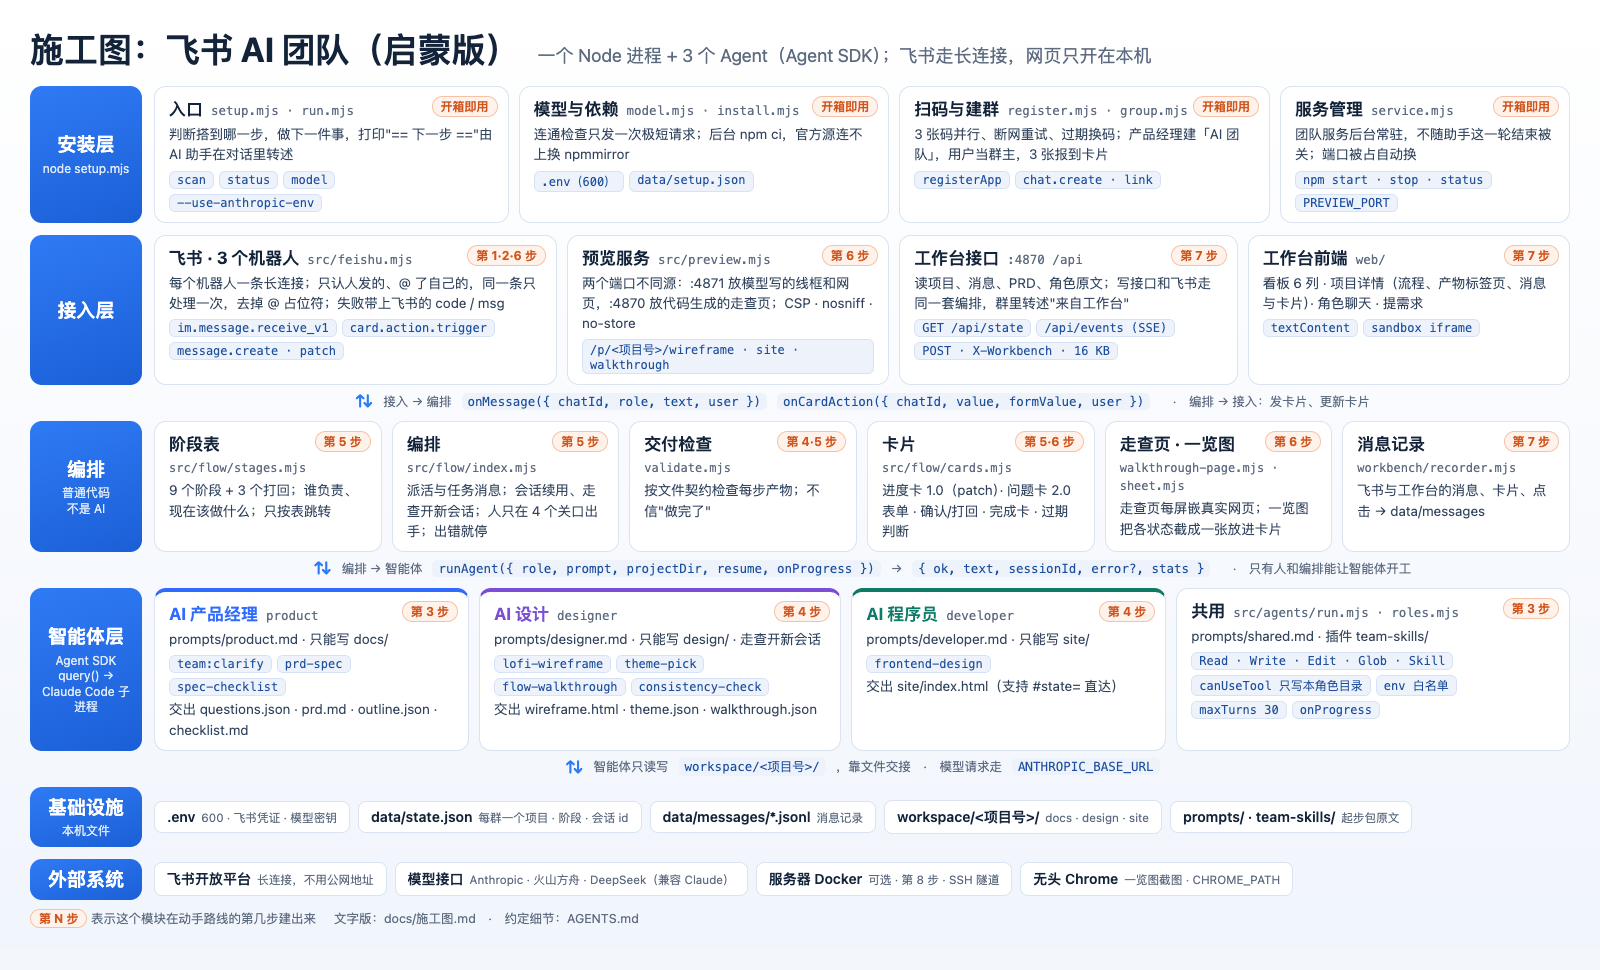
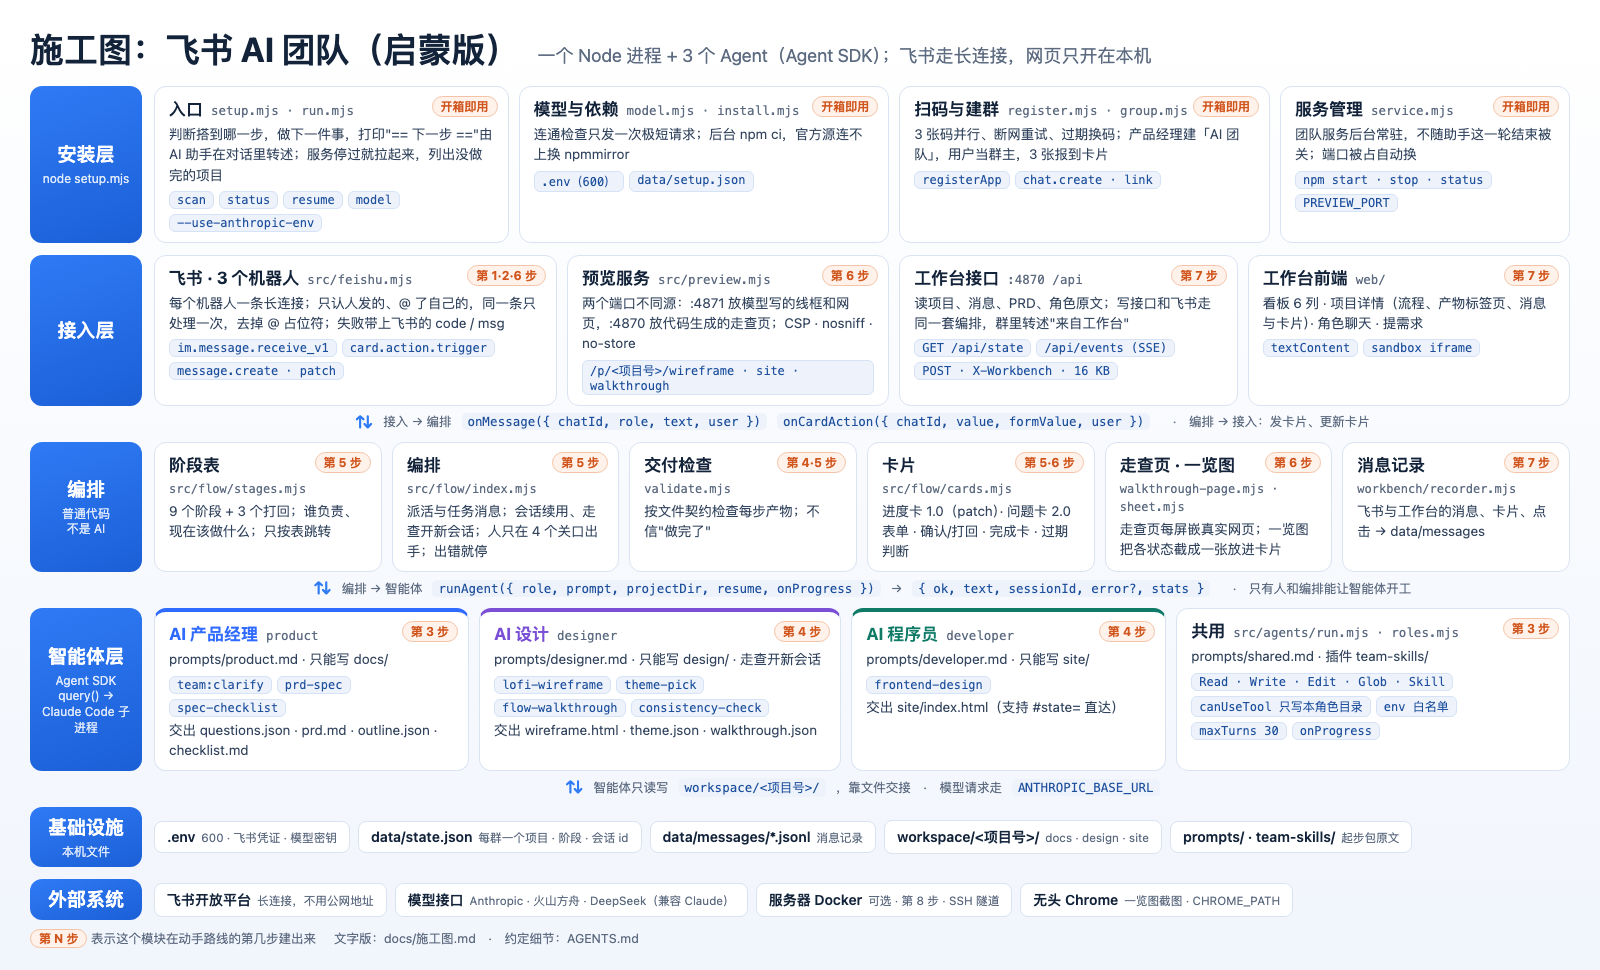
feat: 服务停过以后，由 AI 助手拉起并问用户要不要接着做
实测时电脑合盖、重启后团队服务停了，流程里没有"拉起"和"接续"这一段。
按轻量做法：不注册系统服务、不自动重做，交给 AI 助手。

- node setup.mjs：服务没在跑就拉起来（原有）；之后读工作台 /api/state，
  列出停下来等“重试”的项目和接着做的命令；服务刚被拉起、且用过的，
  提醒停机时 @ 过、点过卡片的再操作一次
- node setup.mjs resume <编号>：替用户给负责的角色发“重试”，走工作台
  POST /api/message，和在群里 @ 它是同一个处理函数
- /api/state 的项目带 retryRole；编排里三处“该谁重试”收成一个函数
- AGENTS.md：用户说飞书没反应、卡片提示不在线、电脑重启过时运行 node setup.mjs；
  README、施工图同步

Changed region(s): [[0.0, 0.1237, 0.9688, 0.9897], [0.9375, 0.6186, 0.9688, 0.6804]]

diff --git a/docs/施工图.html b/docs/施工图.html
@@ -41,8 +41,8 @@ code,.k{font-family:ui-monospace,SFMono-Regular,Menlo,Consolas,"PingFang SC",mon
     <div class="lab">安装层<small>node setup.mjs</small></div>
     <div class="cards" style="grid-template-columns:1.1fr 1.15fr 1.15fr 0.9fr">
       <div class="c"><h3>入口 <span class="k">setup.mjs · run.mjs</span></h3><span class="step">开箱即用</span>
-        <p>判断搭到哪一步，做下一件事，打印"== 下一步 =="由 AI 助手在对话里转述</p>
-        <div class="t"><span>scan</span><span>status</span><span>model</span><span>--use-anthropic-env</span></div></div>
+        <p>判断搭到哪一步，做下一件事，打印"== 下一步 =="由 AI 助手在对话里转述；服务停过就拉起来，列出没做完的项目</p>
+        <div class="t"><span>scan</span><span>status</span><span>resume</span><span>model</span><span>--use-anthropic-env</span></div></div>
       <div class="c"><h3>模型与依赖 <span class="k">model.mjs · install.mjs</span></h3><span class="step">开箱即用</span>
         <p>连通检查只发一次极短请求；后台 npm ci，官方源连不上换 npmmirror</p>
         <div class="t"><span>.env（600）</span><span>data/setup.json</span></div></div>

diff --git a/AGENTS.md b/AGENTS.md
@@ -10,7 +10,7 @@
 4. 扫完后它自动建群「AI 团队」（用户当群主）、3 个机器人发报到卡片、后台启动团队服务。最后告诉用户去群里 @AI 产品经理 说一句需求。
 5. 需要联网：Codex 先切到能联网、能运行命令的模式（默认沙箱不能联网）。
 
-日常：`npm start` 后台启动团队服务（日志 `data/service.log`），`npm stop` 停止，`npm run status` 查看；`node setup.mjs status` 看搭到哪了；`npm test` 跑离线测试。工作台端口是 `.env` 的 `PREVIEW_PORT`（默认 4870，被占用时 setup 会自动换）。同一组机器人只能有一处在连飞书，启动前先 `npm run status`。电脑重启后服务不会自己起来，要再 `npm start`；用户说"点卡片提示目标回调服务不在线"，先 `npm run status` 看服务在不在。
+日常：`npm start` 后台启动团队服务（日志 `data/service.log`），`npm stop` 停止，`npm run status` 查看；`node setup.mjs status` 看搭到哪了；`npm test` 跑离线测试。工作台端口是 `.env` 的 `PREVIEW_PORT`（默认 4870，被占用时 setup 会自动换）。同一组机器人只能有一处在连飞书，启动前先 `npm run status`。用户说飞书没反应、点卡片提示"目标回调服务不在线"、电脑重启或合过盖、工作台打不开时，运行 `node setup.mjs`：它会把服务拉起来，并列出停下来没做完的项目；照它的"下一步"问用户要不要接着做，要就运行它给的 `node setup.mjs resume <编号>`。
 
 ## 改角色和技能
 
@@ -125,7 +125,7 @@ runAgent({ role, prompt, projectDir, resume, onProgress })
 - 只有人（消息、按钮）和编排代码能让智能体开始干活；机器人发的消息一律不理，智能体之间不直接对话。
 - 同一个群正在处理时，再 @ 回复"正在处理上一步，请稍等"。
 - 出错就停：不自动重试、不重发，状态不变，在群里说明出了什么问题、怎么重试（例如 @ 对应角色发"重试"）。
-- 服务中途停掉（电脑重启、睡眠、被关掉）：重启时把还在干活的项目标成出错，在群里说明"团队服务重启过，上一步没做完"，用户发"重试"接着做这一步；确认卡片还没发出去就停掉的，重试只重发确认卡片。
+- 服务中途停掉（电脑重启、睡眠、被关掉）：重启时把还在干活的项目标成出错，在群里说明"团队服务重启过，上一步没做完"，用户发"重试"接着做这一步（助手也可以替用户运行 `node setup.mjs resume <编号>`，见「安装与运行」）；确认卡片还没发出去就停掉的，重试只重发确认卡片。
 
 每一步发给智能体的任务消息（角色说明里按这些说法分节，照用）：
 

diff --git a/docs/施工图.md b/docs/施工图.md
@@ -12,7 +12,7 @@
 
 | 模块 | 文件 | 负责 | 接口 |
 |---|---|---|---|
-| 入口 | `setup.mjs`、`src/setup/run.mjs` | 判断搭到哪一步，做下一件事，打印给 AI 助手的"下一步" | `node setup.mjs [scan\|status\|model …\|--use-anthropic-env]` |
+| 入口 | `setup.mjs`、`src/setup/run.mjs` | 判断搭到哪一步，做下一件事，打印给 AI 助手的"下一步"；服务停过时把它拉起来，列出没做完的项目，`resume` 替用户发"重试" | `node setup.mjs [scan\|status\|resume <编号>\|model …\|--use-anthropic-env]`；工作台 `GET /api/state`、`POST /api/message` |
 | 配置 | `src/setup/env-file.mjs`、`progress.mjs` | `.env` 更新式读写（600）；进度写 `data/setup.json` | — |
 | 模型检查 | `src/setup/model.mjs` | 沿用终端 `ANTHROPIC_*`；发一次极短请求检查连通 | `POST <MODEL_BASE_URL>/v1/messages` |
 | 装依赖 | `src/setup/install.mjs` | 后台 `npm ci`，官方源连不上换 npmmirror | `data/install.json`、`data/install.log` |

diff --git a/README.md b/README.md
@@ -27,7 +27,7 @@
 
 准备：Node.js 24 以上；能创建飞书应用的账号（自建团队的管理员最省事）；一个 Anthropic 兼容的模型接口。
 
-团队服务跑在你的电脑上：电脑睡眠时群里的 AI 同事收不到消息（点卡片会提示"目标回调服务不在线"）；电脑重启后要在项目目录运行 `npm start` 重新启动（或让助手帮你启动）。重启前没做完的那一步，群里会提示 @ 对应角色发"重试"。
+团队服务跑在你的电脑上：合盖睡眠时群里的 AI 同事收不到消息（点卡片会提示"目标回调服务不在线"），打开后会自己连回来；电脑重启后，对助手说"飞书没反应了"，它会把服务拉起来，并问你要不要接着做没做完的那一步。
 
 ## 想改点什么
 
